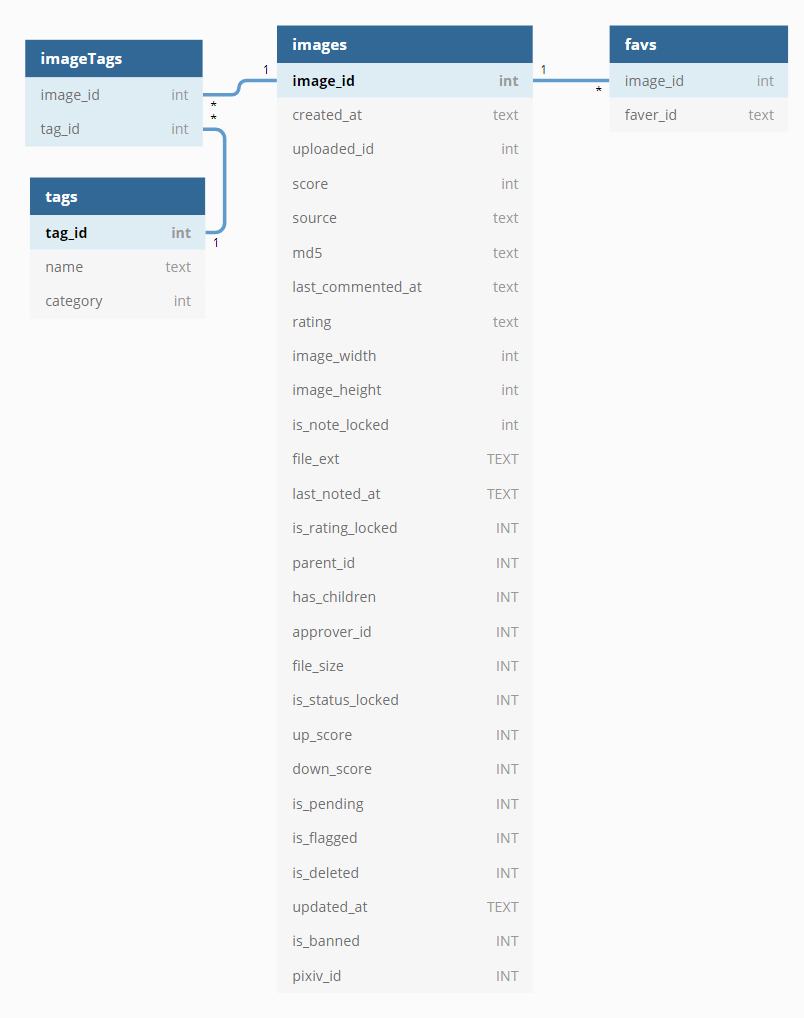
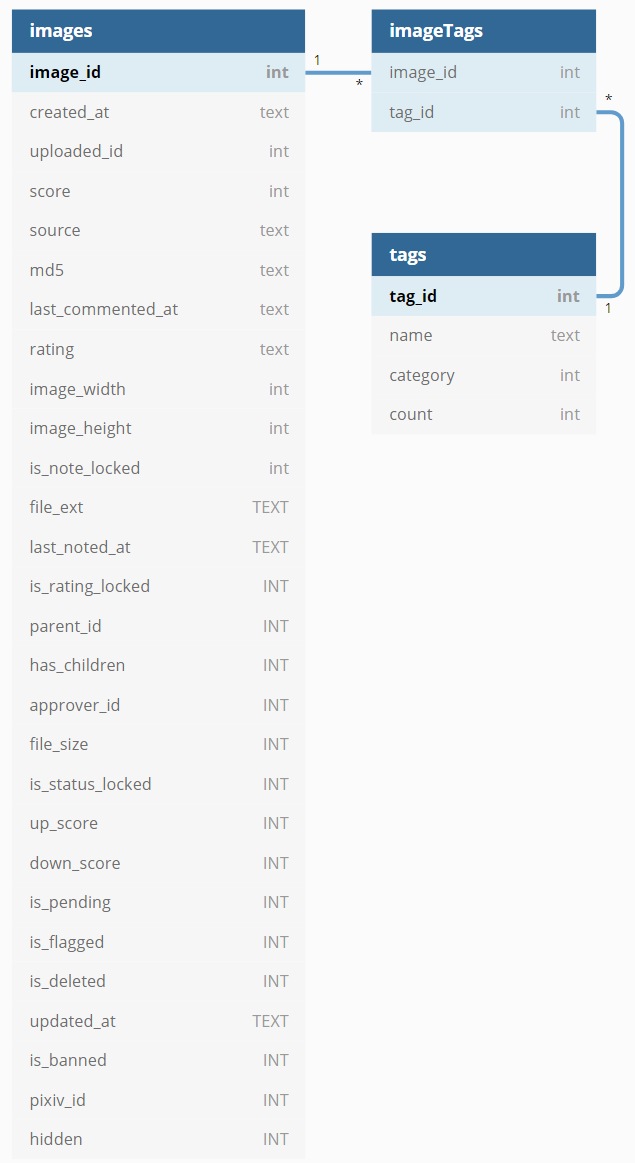
Update database, scripts and diagram for danbooru 2019. "User_delete" column renamed to "hidden".

Changed region(s): [[0.0, 0.0, 0.9874, 1.0], [0.6283, 0.5481, 0.6583, 0.7613], [0.5984, 0.8527, 0.6583, 0.9745]]

diff --git a/database/makedb.py b/database/makedb.py
@@ -2,9 +2,9 @@
 # Modified slightly for db2019:
 # - do not track danbooru favorites
 # - do not track danbooru pools
-# - change 'user_delete' to 'deletion'
+# - change 'user_delete' to 'hidden'
 #
-# The 'deletion' column is used to "hide" files from the browser. It is a set
+# The 'hidden' column is used to hide files from the browser. It is a set
 # of flags, with the current values:
 # 0 : not hidden
 # 1 : user has marked as hidden
@@ -13,12 +13,6 @@
 # 8 : file is an 'effective' duplication of another file [different in size/encoding]
 # 16: file is not an image (rar,zip,swf,mp4,webm,mpg,etc)
 #
-# select I.image_id,I.created_at,I.score,I.source,I.rating,I.image_width,I.image_height,I.file_size
-# from images I
-# join imageTags IT on I.image_id = IT.image_id
-# join tags T on IT.tag_id = T.tag_id
-# where T.name = 'touhou'
-# order by I.image_id
 
 import sqlite3
 import json
@@ -90,7 +84,7 @@ def main():
                   updated_at TEXT,
                   is_banned INT,
                   pixiv_id INT,
-                  deletion INT DEFAULT 0)''')
+                  hidden INT DEFAULT 0)''')
 
     # tags
     c.execute('''CREATE TABLE tags
@@ -133,7 +127,7 @@ def main():
     c.execute('CREATE INDEX image_tags on imageTags(tag_id)')
     # useful index for looking up image by rating
     c.execute('CREATE INDEX image_rate on images(image_id,rating)')
-    c.execute('CREATE INDEX image_del on images(image_id,deletion)')
+    c.execute('CREATE INDEX image_hide on images(image_id,hidden)')
     
     
     for json_file in os.listdir(DATA_DIR):
@@ -185,12 +179,23 @@ def main():
         
         conn.commit()
 
+    #add a count of each tag to the tag table
+    c.execute("alter table tags add count int default 0")
+    c.execute("""update tags set count=
+                 (select count(image_id) from imagetags where imagetags.tag_id=tags.tag_id) 
+                  where exists 
+                  (select * from imagetags where imagetags.tag_id = tags.tag_id)""")
+    conn.commit()
+    
     conn.close()
 
 if __name__ == "__main__":
     main()
 
-#add a count of each tag to the tag table
-#update tags add count int default 0;
-#update tags set count=(select count(image_id) from imagetags where imagetags.tag_id=tags.tag_id) 
-#where exists (select * from imagetags where imagetags.tag_id = tags.tag_id);
+
+# select I.image_id,I.created_at,I.score,I.source,I.rating,I.image_width,I.image_height,I.file_size
+# from images I
+# join imageTags IT on I.image_id = IT.image_id
+# join tags T on IT.tag_id = T.tag_id
+# where T.name = 'touhou'
+# order by I.image_id

diff --git a/database/check_exists2.py b/database/check_exists2.py
@@ -39,7 +39,7 @@ while True:
         if len(res1) == 0 and len(res2)==0:
             print(which)
             # mark the image as 'missing' in the database
-            cur.execute('update images set deletion=2 where image_id=?',(id,))
+            cur.execute('update images set hidden=2 where image_id=?',(id,))
         
     last = res[len(res)-1][0]
     print("#-" + str(last))

diff --git a/database/README.md b/database/README.md
@@ -43,4 +43,6 @@ file. Marks metadata rows with missing images as `user_delete=2` (see above).
 
 ### The Schema
 
+Diagram manually created via dbdiagram.io/d
+
 ![database schema](schema.png)
